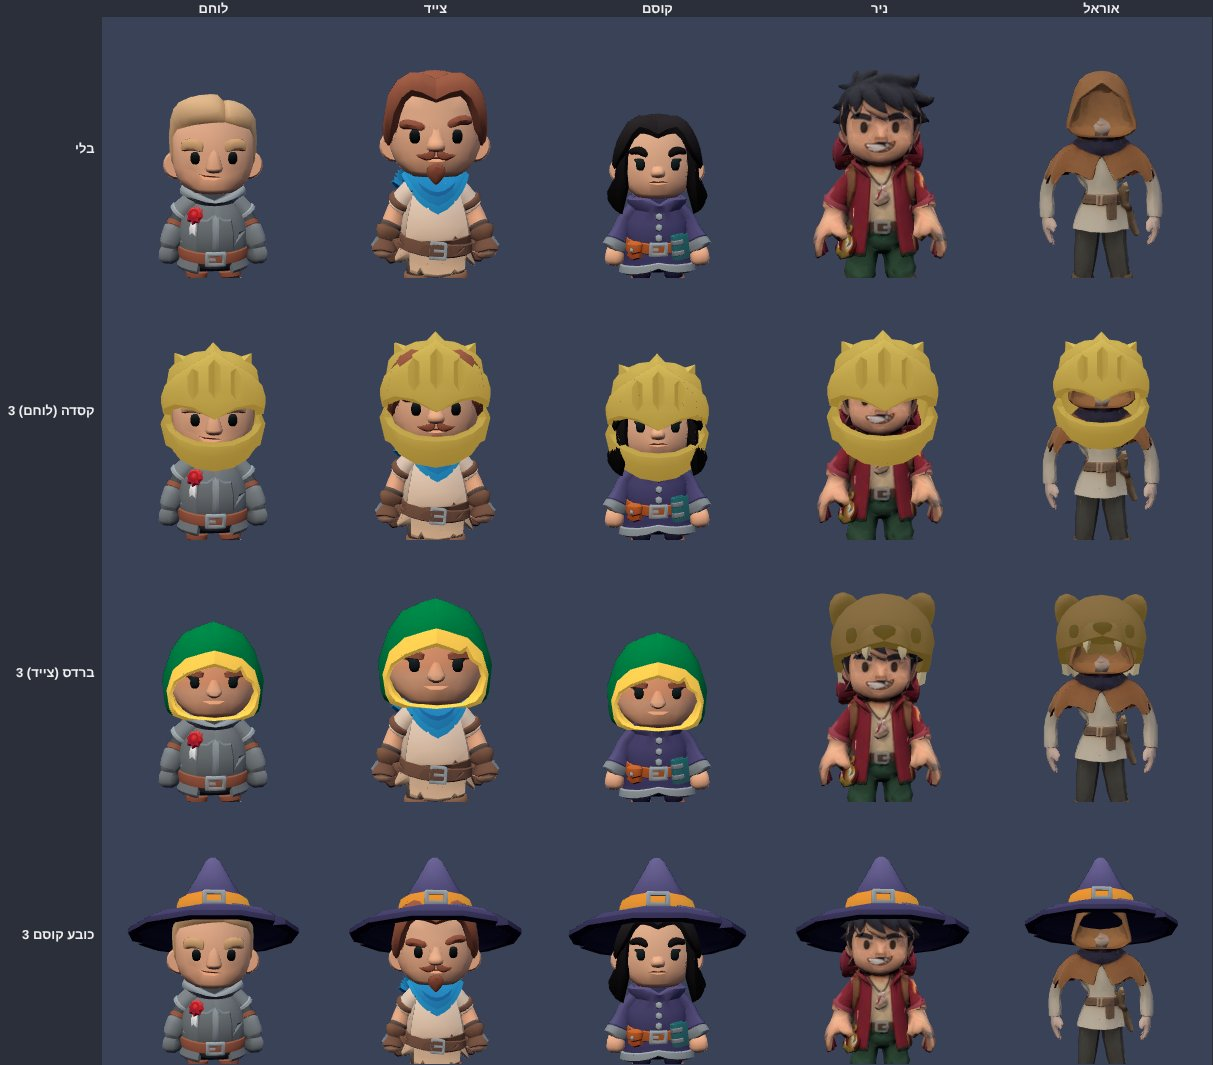
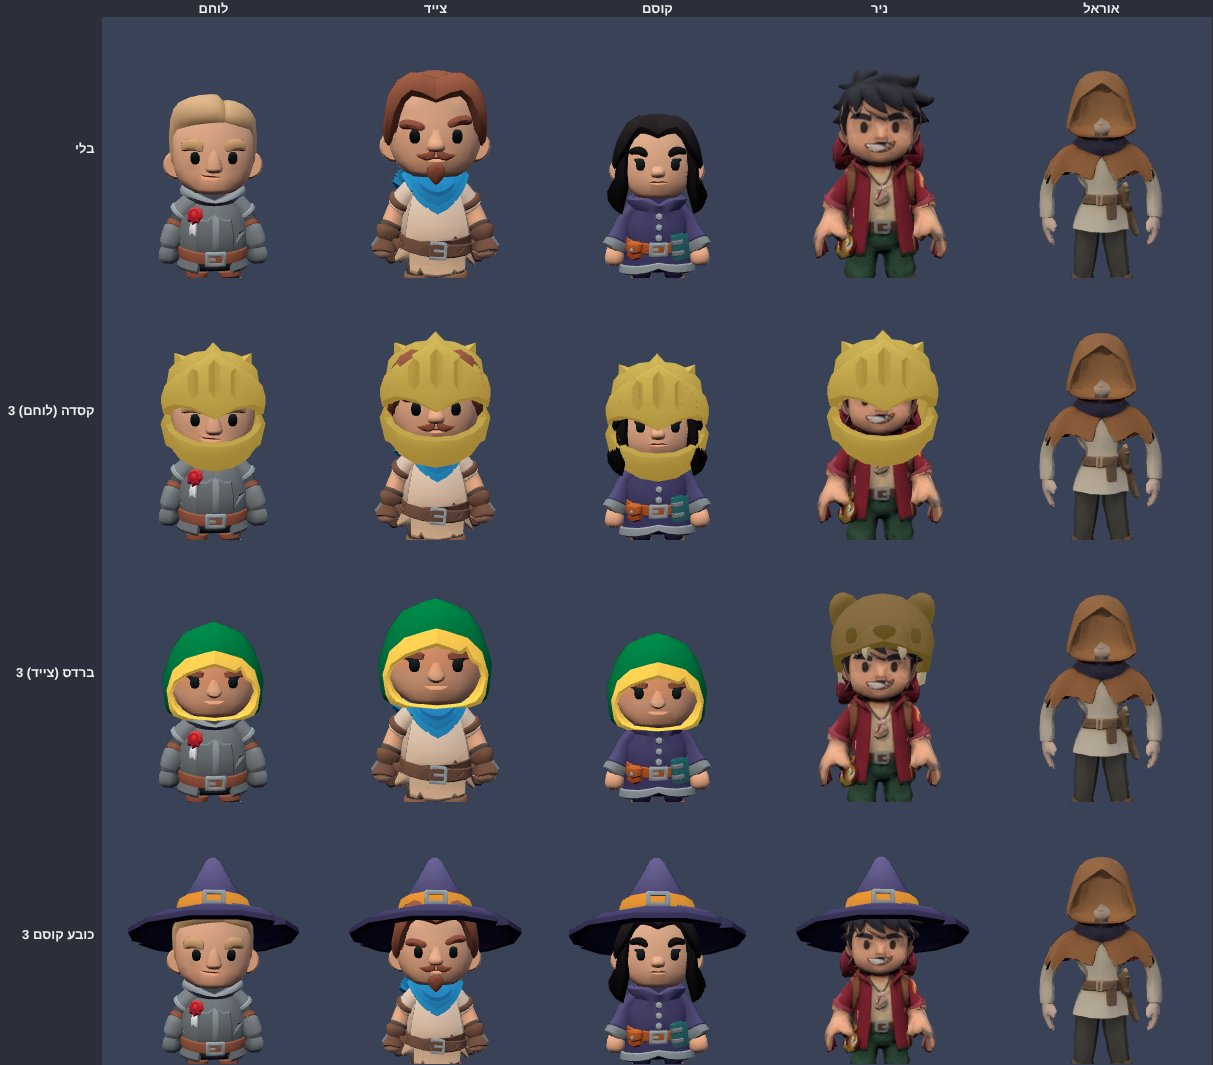
כובעים: בלי כובע על אוראל, הברדס שלו הוא הכובע
החלטה של המתאם (6.11): כל כובע על אוראל יצא כובע על ברדס. ההגנה נשארת.

Claude-Session: https://claude.ai/code/session_01ABMDoLKcq7m4JiKqe66BpP

Changed region(s): [[0.8541, 0.8056, 0.9761, 1.0], [0.8541, 0.5577, 0.9761, 0.7437], [0.8541, 0.3099, 0.9761, 0.4958]]

diff --git a/js/armor.js b/js/armor.js
@@ -27,11 +27,12 @@ const ARMOR={
      head: הברדס מחליף את הראש, אז הראש של הדמות (Knight_Head...) נשאר חלק נפרד ומוסתר. noHead: מודל בלי ראש נפרד (ניר ואוראל) מקבל את הפרווה במקום.
      ref: הראש שכל כובע נבנה בשבילו (KayKit 1.0: אביר, קוסם, ברברי, נוכל), [מינימום, מקסימום] ביחידות של עצם הראש. הכובע עובר מהראש הזה לראש של הדמות.
      glowK: כמה חזק הזוהר בכובע הזה (הפרווה נצבעת כולה בזוהר מלא).
+     none: מודלים בלי כובע בכלל: לאוראל יש ברדס מובנה, וכל כובע עליו יצא כובע על ברדס (המתאם, 6.11.2026). ההגנה נשארת.
      fit: התאמה לכל מודל מעבר למדידת הראש (armorHeadFit): s גודל, y הרמה ביחידות של עצם הראש. הקוסם: השיער נמוך, והכובע ישב על העיניים */
   hat:{paint:{helm:{metal:1},hood:{cloth:0.3},mage:{band:1},fur:{fur:0.45}},
     tint:['#C8925A','#B4BCC6','#FFFFFF','#FFE27A','#FF8FC8'],glowFrom:{helm:0,hood:3,mage:0,fur:3},glowPart:{hood:['rim']},glowK:{fur:0.35},rim:3,
     ref:{helm:[[-0.543,-0.026,-0.485],[0.543,1.073,0.532]],mage:[[-0.543,-0.174,-0.748],[0.543,0.961,0.519]],fur:[[-0.543,-0.107,-0.46],[0.543,0.945,0.526]],hood:[[-0.543,-0.026,-0.482],[0.543,1.043,0.532]]},
-    head:'Head',noHead:{hood:'fur'},fit:{nirHero:{s:1.12},orelHero:{s:1.1},mage:{y:0.1}}},
+    head:'Head',noHead:{hood:'fur'},none:['orelHero'],fit:{nirHero:{s:1.12},orelHero:{s:1.1},mage:{y:0.1}}},
   icon:{head:'🪖',body:'🧥',shield:'🛡'},   // לשונית בתרמיל וצללית במשבצת ריקה
   /* מגן (המתאם, 2.11.2026: משבצת אמיתית במקום המגן שנגזר מהתכשיט). לא לפי מחלקה: מגן אחד לכל שכבה, 'shield0' עד 'shield4'.
      נראה ביד השנייה רק עם נשק של יד אחת (חרב, גרזן), כמו קודם (gear3dLook ב-render3d.js). gift: מגן עץ לכל אחד, פעם אחת */
@@ -109,7 +110,7 @@ function armorHeadFit(a,model){
    גודל לפי הרוחב והעומק, באמצע הראש, והקודקוד על הקודקוד. נבנה מחדש עם השריון (armor3d) */
 function armorHat(a,hd,head){
   const H=ARMOR.hat,C_=ARMOR.cls[hd.cls],hb=bone(a.root,'head');let k=C_.head;
-  if(!hb||!R3D.hats)return;
+  if(!hb||!R3D.hats||H.none.includes(a.L&&a.L.model))return;
   if(k==='hood'&&!head.length)k=H.noHead.hood;   // בלי ראש נפרד אי אפשר להחליף ראש
   const src=R3D.hats[k];if(!src)return;
   const g=src.clone(),t=hd.tier,col=new THREE.Color(H.tint[t]),tier=new THREE.Color(GEAR.tiers[t].col),P=H.paint[k]||{},

diff --git a/tools/check.js b/tools/check.js
@@ -2932,7 +2932,7 @@ function worldBot(m,L,god){
     try{for(const [h,sk,doll] of [['warrior',null],['hunter',null],['mage',null],['warrior','nir'],['warrior','orel'],['warrior',null,1]]){
       const tag=h+(sk?'/'+sk:'')+(doll?'/בובה':''),off=look(h,sk,false,doll),on=look(h,sk,true,doll);
       if(off.nat.length||off.built)o.bad.push(tag+': '+(off.nat.join('+')||'חלק'));
-      if(JSON.stringify(off)===JSON.stringify(on))o.same.push(tag)}
+      if(JSON.stringify(off)===JSON.stringify(on)&&!(sk&&ARMOR.hat.none.includes(HEROES.skins[sk].look)))o.same.push(tag)}   // אוראל: בלי כובע בכלל (ARMOR.hat.none)
     }finally{const k=JSON.parse(keep);SAVE.gear=k.gear;SAVE.hero.start=k.start;SAVE.hero.skin=k.skin;R3D._hl=null;syncPlayer(0);if(R3D.doll&&R3D.doll.a)R3D.doll.key=null}
     return o});
     if(!hv.skip)check(!hv.bad.length&&!hv.same.length,'משבצת ראש ריקה: '+(hv.bad.length?'חלק ראש דלוק בלי קסדה ('+hv.bad.join(', ')+')':'בלי כובע או קסדה ב-3 המחלקות, בסקינים ובבובה')+(hv.same.length?', הקסדה לא שינתה כלום ('+hv.same.join(', ')+')':', וקסדה משנה את המראה'))}
